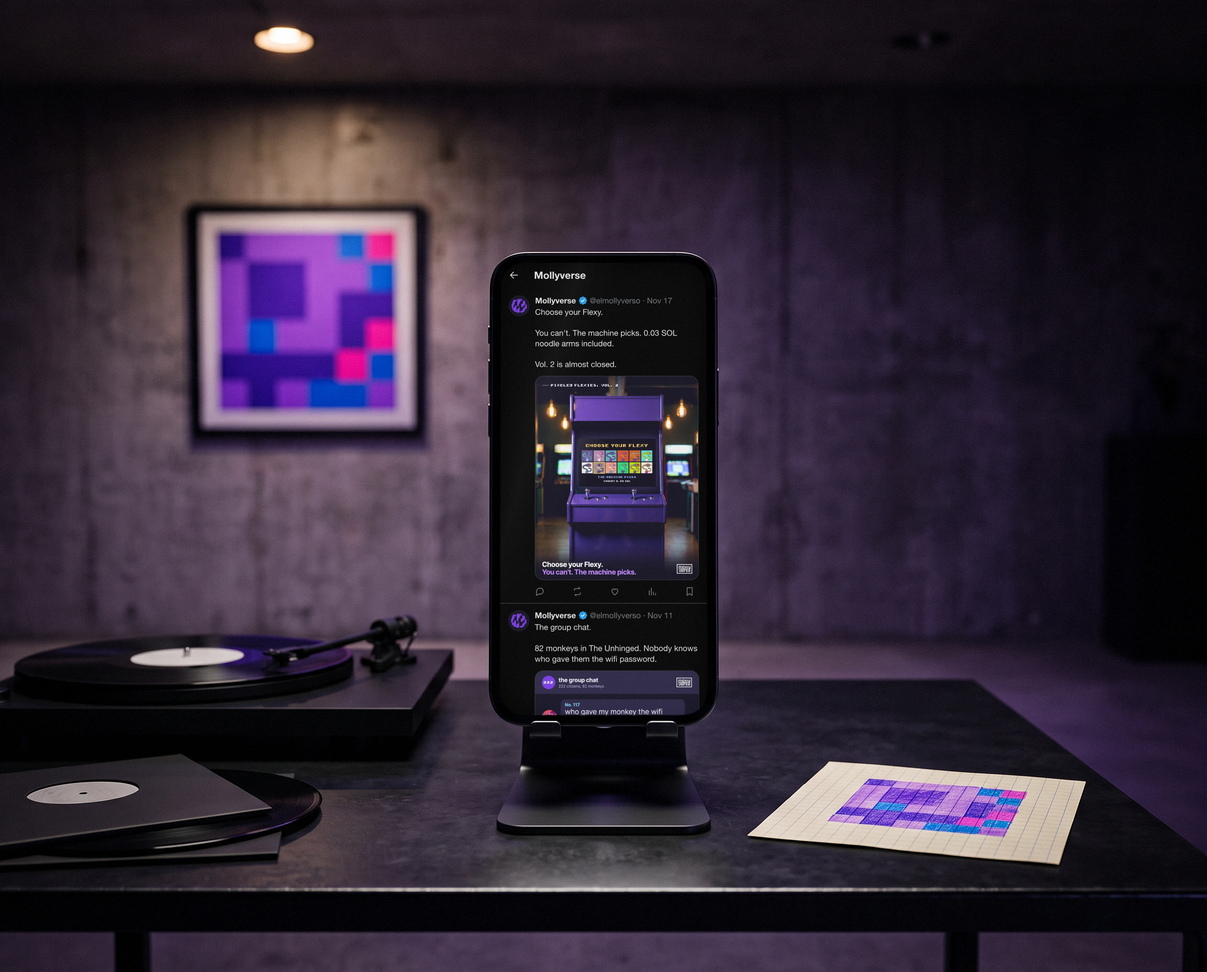
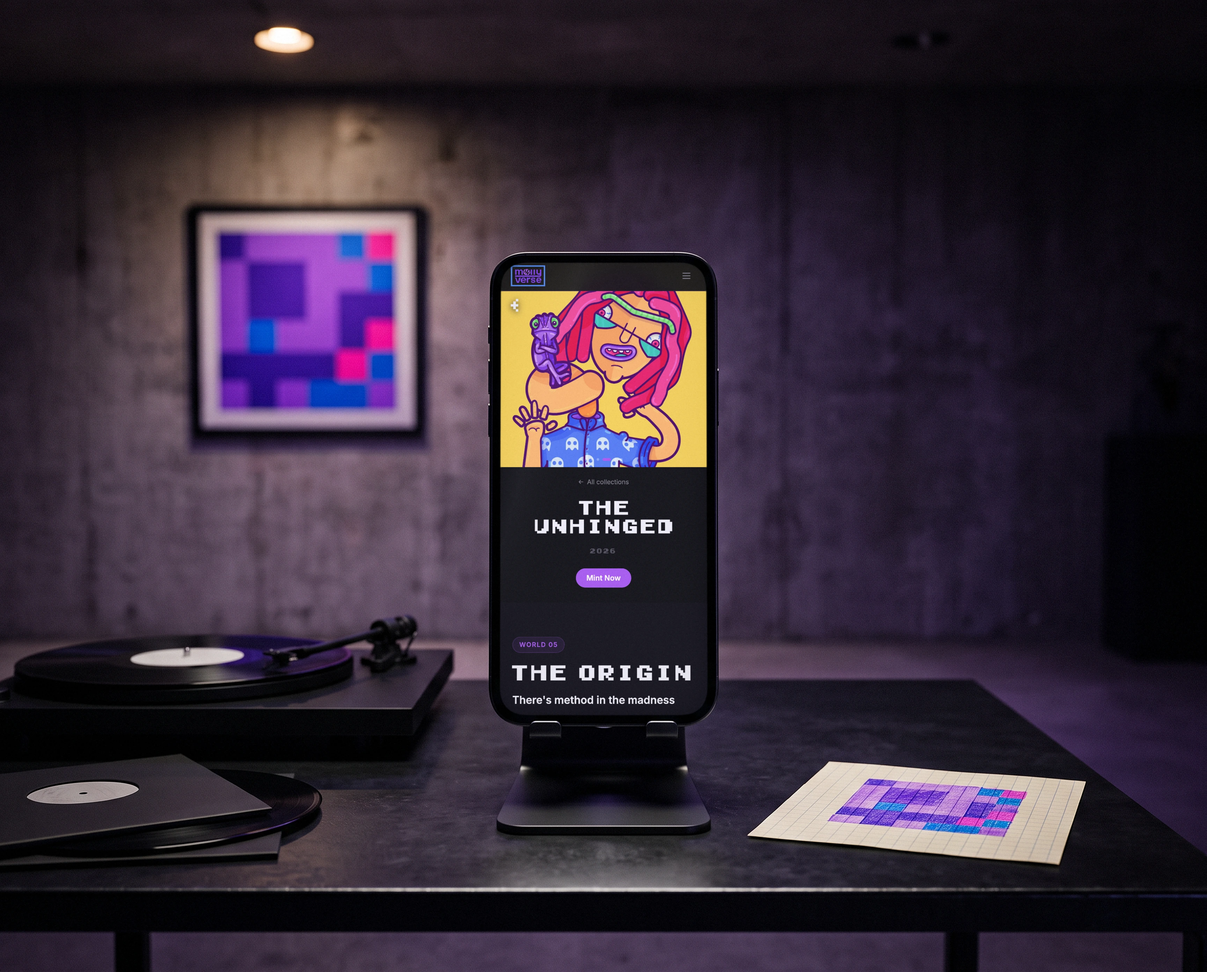
Mollyverse: the app on the stand phone, the seven posts as a flat panel
Replaces mollyverse-x-celular-mockup.webp (same scene, now the live app's
The Unhinged page, 3456x2784) and swaps the phones fan
(mollyverse-posts-telefonos.webp, removed) for panel 07, the seven posts
on the brand's night. Same order and texts otherwise, in ES and EN.

Changed region(s): [[0.4062, 0.25, 0.5938, 0.75]]

diff --git a/src/projects.tsx b/src/projects.tsx
@@ -559,7 +559,7 @@ const mollyverseProject: Project = {
     "/img/projects/mollyverse/mollyverse-demo-tienda.mp4",
     "/img/projects/mollyverse/mollyverse-x-MY-05.webp",
     "/img/projects/mollyverse/mollyverse-x-celular-mockup.webp",
-    "/img/projects/mollyverse/mollyverse-posts-telefonos.webp",
+    "/img/projects/mollyverse/mollyverse-x-MY-07.webp",
   ],
   imagesEn: [
     "/img/projects/mollyverse/mollyverse-x-MY-02a.webp",
@@ -572,7 +572,7 @@ const mollyverseProject: Project = {
     "/img/projects/mollyverse/mollyverse-demo-tienda.mp4",
     "/img/projects/mollyverse/mollyverse-x-MY-05.webp",
     "/img/projects/mollyverse/mollyverse-x-celular-mockup.webp",
-    "/img/projects/mollyverse/mollyverse-posts-telefonos.webp",
+    "/img/projects/mollyverse/mollyverse-x-MY-07.webp",
   ],
 };
 
